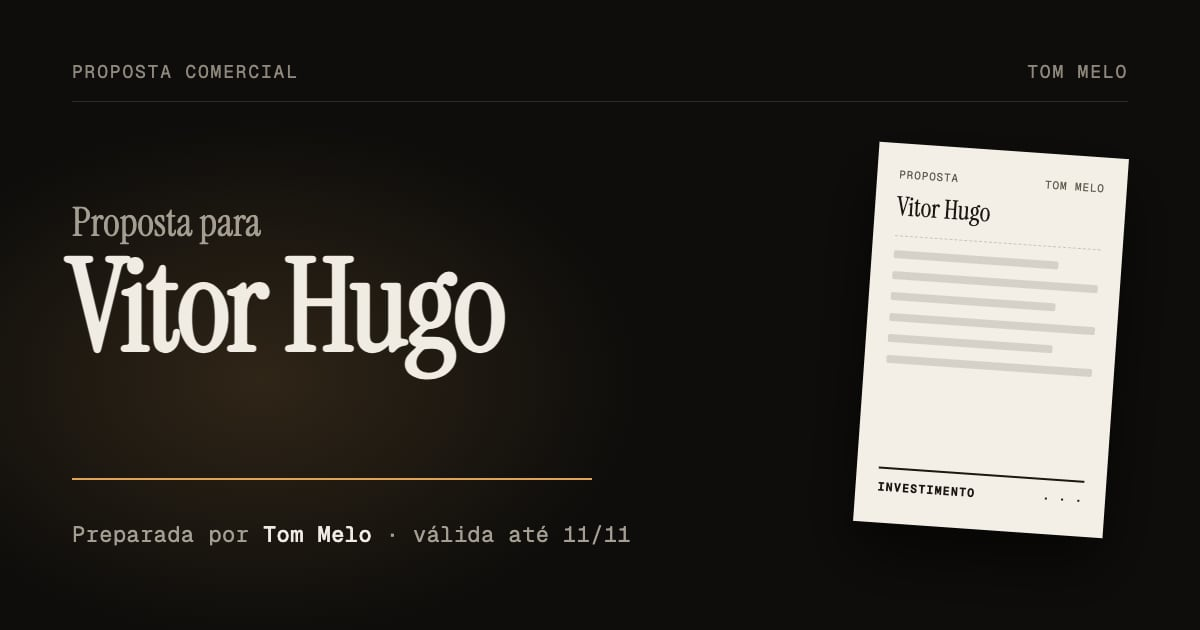
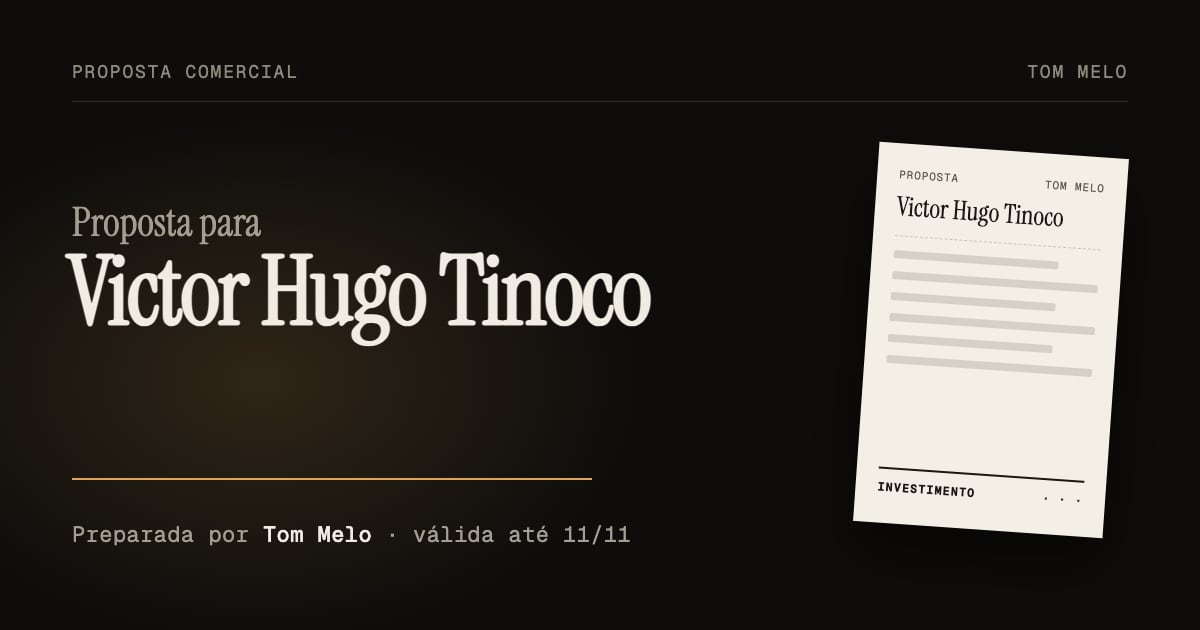
Proposta Victor Hugo Tinoco: nome completo no texto, no título e na prévia

Changed region(s): [[0.0308, 0.3921, 0.555, 0.6032], [0.7708, 0.3016, 0.8942, 0.3619]]

diff --git a/proposta-victor-hugo/index.html b/proposta-victor-hugo/index.html
@@ -10,8 +10,8 @@
   <head>
     <meta charset="utf-8" />
     <meta name="viewport" content="width=device-width, initial-scale=1, viewport-fit=cover" />
-    <title>Proposta para Vitor Hugo · Tom Melo</title>
-    <meta name="description" content="Preparada por Tom Melo para Vitor Hugo. Válida até 11/11." />
+    <title>Proposta para Victor Hugo Tinoco · Tom Melo</title>
+    <meta name="description" content="Preparada por Tom Melo para Victor Hugo Tinoco. Válida até 11/11." />
     <!-- Proposta não aparece no Google (a hospedagem também manda X-Robots-Tag) -->
     <meta name="robots" content="noindex, nofollow, noarchive" />
     <!-- Clicar num link externo não entrega o endereço secreto desta proposta -->
@@ -24,10 +24,10 @@
     <!-- Prévia do link no WhatsApp (preenchida a partir do proposta.js) -->
     <meta property="og:type" content="website" />
     <meta property="og:locale" content="pt_BR" />
-    <meta property="og:title" content="Proposta para Vitor Hugo · Tom Melo" />
-    <meta property="og:description" content="Preparada por Tom Melo para Vitor Hugo. Válida até 11/11." />
-    <meta property="og:url" content="https://lp.upwardacademy.com.br/proposta-vitor-hugo/" />
-    <meta property="og:image" content="https://lp.upwardacademy.com.br/proposta-vitor-hugo/og.jpg" />
+    <meta property="og:title" content="Proposta para Victor Hugo Tinoco · Tom Melo" />
+    <meta property="og:description" content="Preparada por Tom Melo para Victor Hugo Tinoco. Válida até 11/11." />
+    <meta property="og:url" content="https://lp.upwardacademy.com.br/proposta-victor-hugo/" />
+    <meta property="og:image" content="https://lp.upwardacademy.com.br/proposta-victor-hugo/og.jpg" />
     <meta property="og:image:width" content="1200" />
     <meta property="og:image:height" content="630" />
     <meta name="twitter:card" content="summary_large_image" />

diff --git a/proposta-victor-hugo/proposta.js b/proposta-victor-hugo/proposta.js
@@ -27,8 +27,8 @@ window.PROPOSTA = {
 
   cliente: {
     contato: '', // primeiro nome para a saudação ("Boa tarde, Ana."); pode ficar vazio
-    contatoCompleto: 'Vitor Hugo', // nome completo, já preenchido na aprovação
-    empresa: 'Vitor Hugo',
+    contatoCompleto: 'Victor Hugo Tinoco', // nome completo, já preenchido na aprovação
+    empresa: 'Victor Hugo Tinoco',
   },
 
   projeto: {
@@ -42,7 +42,7 @@ window.PROPOSTA = {
   },
 
   // Link final da proposta (para a prévia no WhatsApp). Pode ficar vazio no teste.
-  compartilhar: { url: 'https://lp.upwardacademy.com.br/proposta-vitor-hugo/', imagem: 'og.jpg' },
+  compartilhar: { url: 'https://lp.upwardacademy.com.br/proposta-victor-hugo/', imagem: 'og.jpg' },
 
   /* ------------------------------------------------------------- SEU SERVIÇO */
   autor: {
